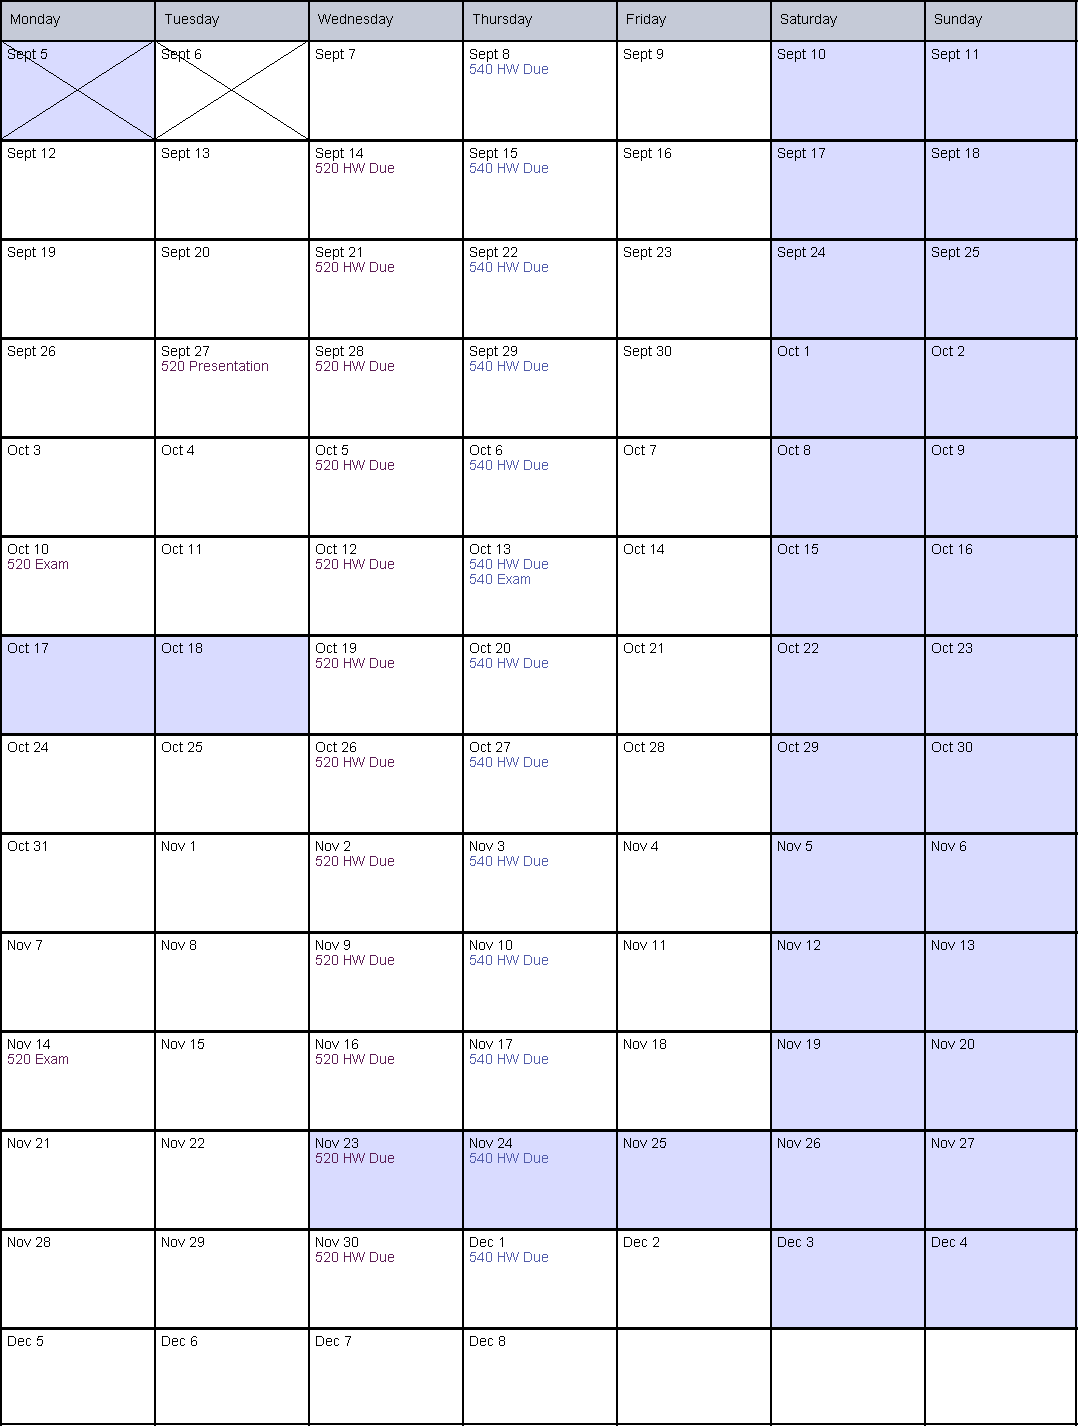
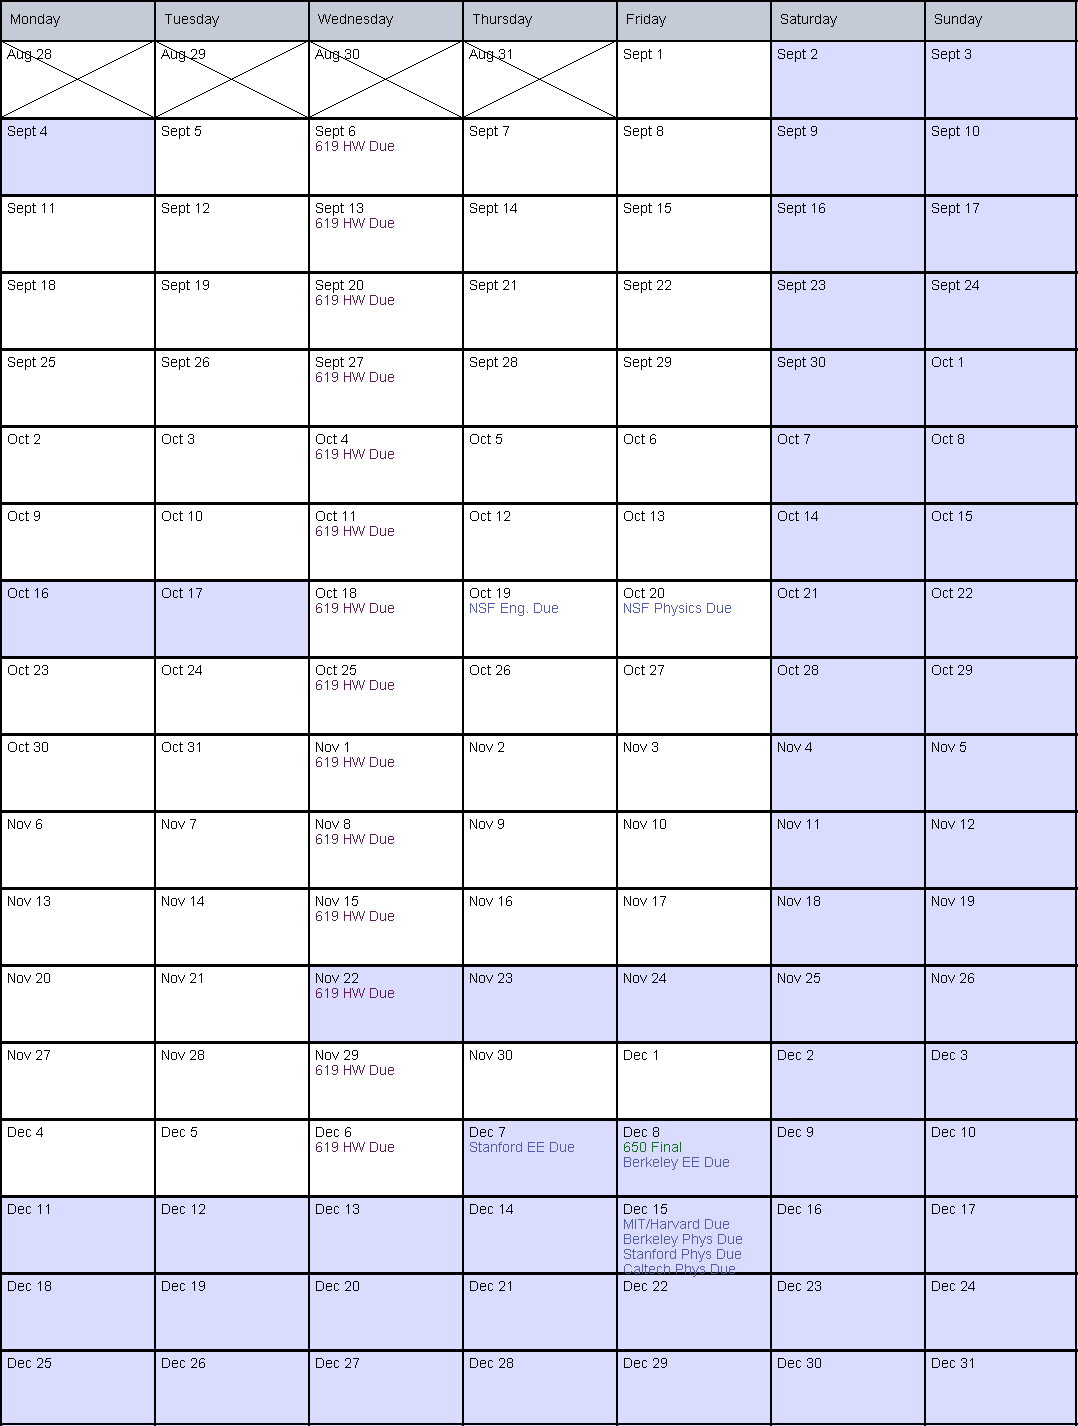
update

Changed region(s): [[0.0, 0.5554, 1.0, 1.0], [0.0, 0.0309, 1.0, 0.5245]]

diff --git a/src/Calendar.java b/src/Calendar.java
@@ -29,9 +29,9 @@ public class Calendar extends Applet implements Runnable, KeyListener {
     String[] days=new String[]{"Monday","Tuesday","Wednesday","Thursday","Friday","Saturday","Sunday"};
     int[] daysPerMonth=new int[]{ 31  , 28  , 31  , 30  , 31  , 30   , 31   , 31  , 30   , 31  , 30  , 31  };
     String[] months=new String[]{"Jan","Feb","Mar","Apr","May","June","July","Aug","Sept","Oct","Nov","Dec"};
-    int adj=5;
-    int start=getDayofYear(5,9);
-    int end=getDayofYear(8,12);
+    int adj=6;
+    int start=getDayofYear(28,8);
+    int end=getDayofYear(31,12);
     int rows=(int)(Math.ceil((end-start)/7.0));
     int currentDay=start;
     ArrayList<String>[] events;
@@ -86,11 +86,18 @@ public class Calendar extends Applet implements Runnable, KeyListener {
     public void addEvents(){
         addWeeklyEvents();
         //addEvent("BPG Report Due",getDayofYear(24,5),0);
-        addEvent("520 Presentation",getDayofYear(27,9),4);
-        addEvent("520 Exam",getDayofYear(10,10),4);
-        addEvent("520 Exam",getDayofYear(14,11),4);
-        addEvent("540 Exam", getDayofYear(13,10), 1);
-        addEvent("540 Exam", getDayofYear(18,12), 1);
+        addEvent("650 Final", getDayofYear(8,12), 3);
+        addEvent("NSF Eng. Due", getDayofYear(19,10), 1);
+        addEvent("NSF Physics Due", getDayofYear(20,10), 1);
+        addEvent("MIT/Harvard Due", getDayofYear(15,12), 1);
+        addEvent("Berkeley EE Due", getDayofYear(8,12), 1);
+        addEvent("Berkeley Phys Due", getDayofYear(15,12), 1);
+        addEvent("Stanford EE Due", getDayofYear(7,12), 1);
+        addEvent("Stanford Phys Due", getDayofYear(15,12), 1);
+        addEvent("Caltech Phys Due", getDayofYear(15,12), 1);
+        addEvent("Caltech EE Due", getDayofYear(15,13), 1);
+
+        addEvent("UC Boulder Due", getDayofYear(15,13), 1);
 
         //add428();
 
@@ -105,14 +112,18 @@ public class Calendar extends Applet implements Runnable, KeyListener {
         int fdoexp=getDayofYear(30-7,5);
         for (int i=start; i<=end; i++){
             int day=getDayOfWeek(i);
-            if (i> getDayofYear(7,9) && i<getDayofYear(7,12)) {
+            if (i> getDayofYear(3,9) && i<getDayofYear(7,12)) {
                 if (i>secondweek){
                     if (day == 3) {
-                        addEvent("540 HW Due", i, 1);
+                        //addEvent("540 HW Due", i, 1);
                     }
                 }
-                if(i> getDayofYear(13,9) && day==2){
-                    addEvent("520 HW Due", i, 4);
+                if(day==2){
+                    addEvent("619 HW Due", i, 4);
+
+                }
+                if(i> getDayofYear(2,9) && day==2){
+
 
                 }
 
@@ -131,8 +142,8 @@ public class Calendar extends Applet implements Runnable, KeyListener {
     }
 
     private void setHasSchool(){
-        int fdos=getDayofYear(29,8);
-        int ldos=getDayofYear(9,12);
+        int fdos=getDayofYear(28,8);
+        int ldos=getDayofYear(6,12);
         for (int i=start; i<=end; i++){
             int day=getDayOfWeek(i);
             if (day==5||day==6){
@@ -141,12 +152,13 @@ public class Calendar extends Applet implements Runnable, KeyListener {
                 noSchool[i-start]=true;
             }
         }
-        noSchool[getDayofYear(5,9)-start]=true;
+        noSchool[getDayofYear(4,9)-start]=true;
+        noSchool[getDayofYear(16,10)-start]=true;
         noSchool[getDayofYear(17,10)-start]=true;
-        noSchool[getDayofYear(18,10)-start]=true;
+        noSchool[getDayofYear(22,11)-start]=true;
         noSchool[getDayofYear(23,11)-start]=true;
         noSchool[getDayofYear(24,11)-start]=true;
-        noSchool[getDayofYear(25,11)-start]=true;
+        noSchool[getDayofYear(7,12)-start]=true;
         //noSchool[getDayofYear(18,10)-start]=true;
         //noSchool[getDayofYear(19,10)-start]=true;
         //noSchool[getDayofYear(17,1)-start]=true;
